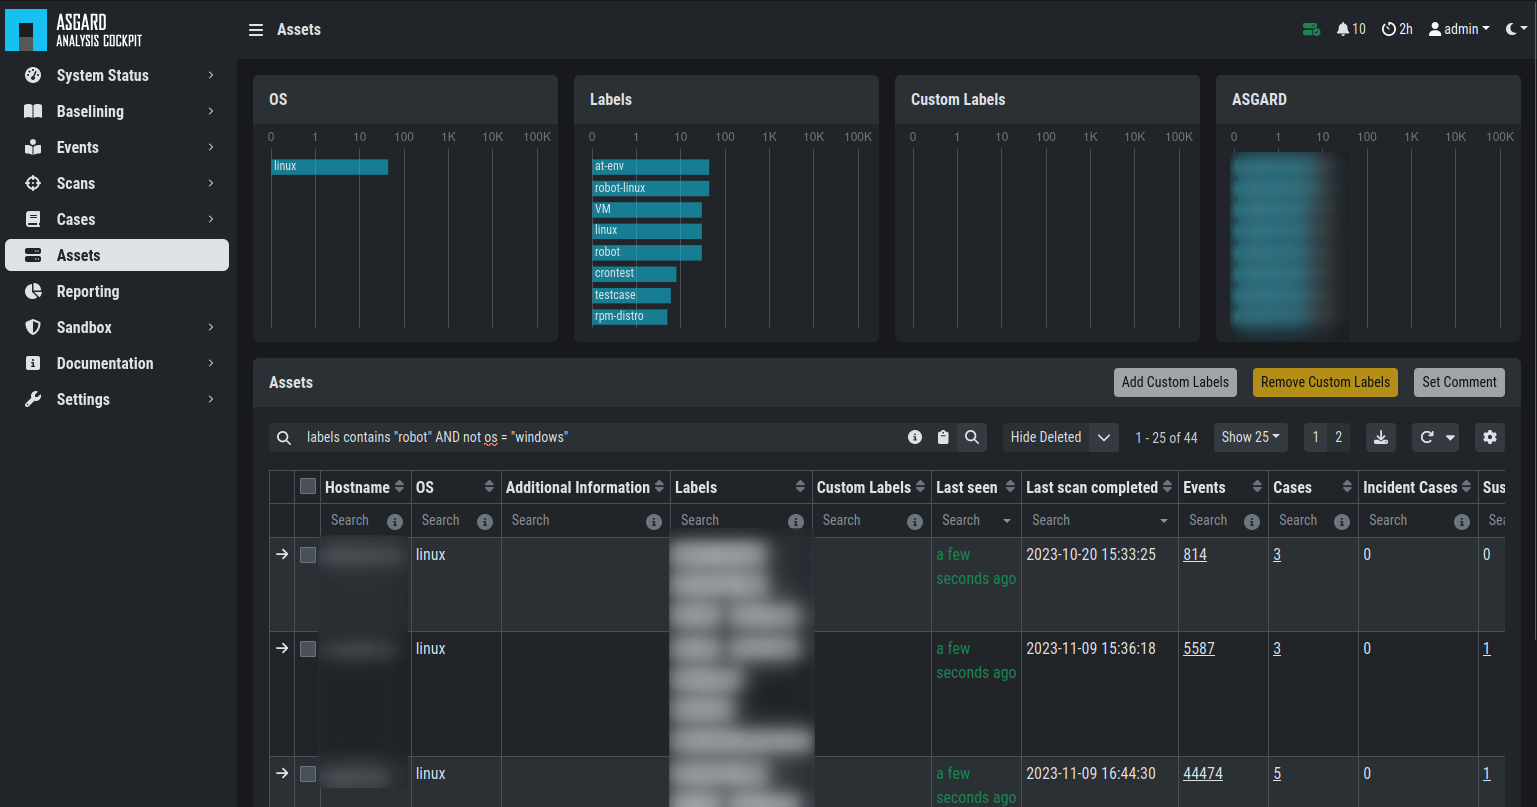
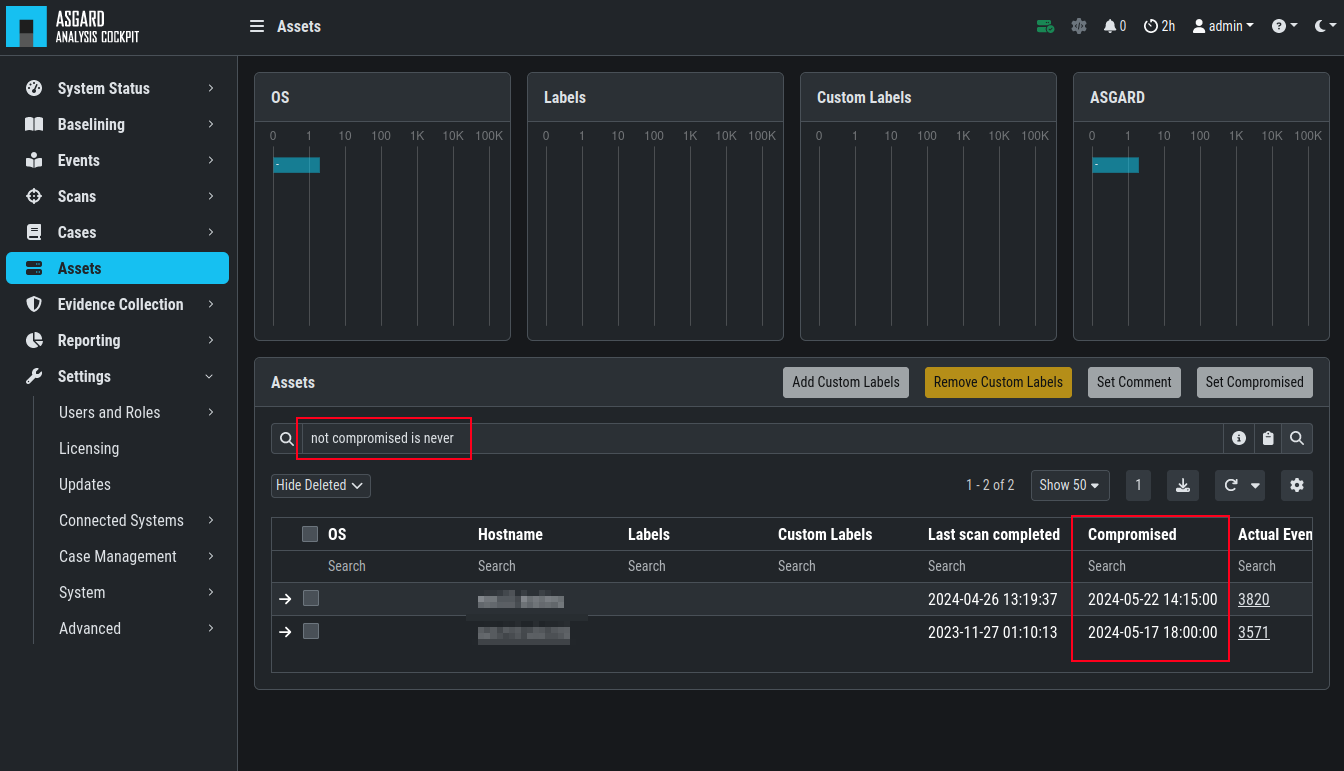
feat: compromised asset
feat: case priority

diff --git a/baselining/case-creation1.rst b/baselining/case-creation1.rst
@@ -35,7 +35,8 @@ Create a new case following these steps:
 6. Choose one or more **recommendations**
 7. Select a **case type** (see the :ref:`glossary/case-glossary:case types` for a detailed description of every case type)
 8. Select a **case status** (usually used to mark it as 'work in progress' or to forward it to the next team)
-9. Submit case by clicking the **Create Case** button
+9. Select a **case priority** (usually used to mark the importance of the case)
+10. Submit case by clicking the **Create Case** button
 
 .. figure:: ../images/cockpit_case_creation3.png
 

diff --git a/administration/amc.rst b/administration/amc.rst
@@ -44,6 +44,10 @@ By using the "Asset View" you can e.g., easily answer questions like:
 -  Which systems with IP addresses starting "192.168." appear in
    "Incident" cases?
 
+You can also set a time when an asset was compromised. This is useful
+for example when you want to see which systems were compromised in the
+last 30 days.
+
 In combination with the ``ASGARD Query`` and ``Labels``, which are identical
 to your ASGARD, you can even narrow down the events by system group
 (e.g., Domain Controllers, or certain locations).
